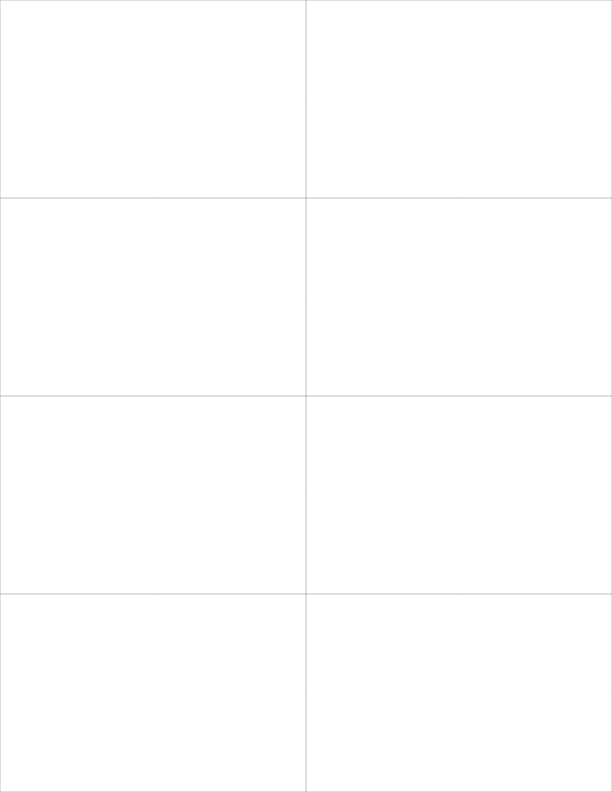
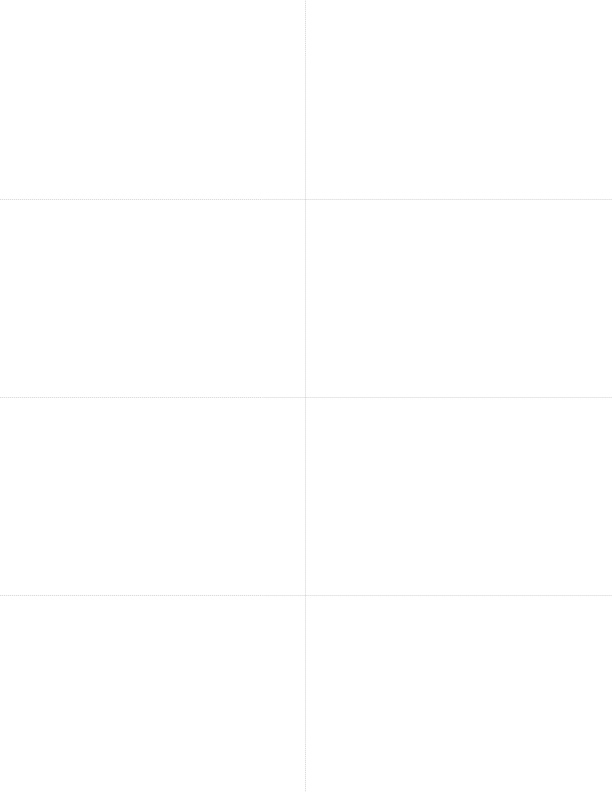
bg

diff --git a/card.css b/card.css
@@ -5,6 +5,9 @@
 	width: 100%;
 	height: 100%;
 	background-color: none;
+	background-image: url(images/card_fullpage.jpg);
+	background-repeat: no-repeat;
+	background-size: 100%;
 }
 .carditty {
 	width: 50%;
@@ -14,7 +17,7 @@
 	padding-right: 27px;
 	padding-bottom: 13px;
 	float:left;
-	background-color:#fff;
+	/*background-color:#fff;*/
 }
 .carditty2 { 
 	width: 50%;
@@ -37,8 +40,8 @@
 	line-height: 12px;
 	font-weight: 500;
 	margin-bottom: 2px;
-	background-color:#FFFFFF;
-	border:none;background-image: url(images/card_tittle.jpg);
+	/*background-color:#FFFFFF;*/
+	border:none;background-image: url(images/card_tittle2.png);
 	background-repeat: no-repeat;
 	background-size: 100%;
 }
@@ -52,7 +55,7 @@
 	margin-bottom: 0.227in;
 	background-color:#FFFFFF;
 	border:none;
-	background-image: url(images/card_tittle.jpg);
+	background-image: url(images/card_tittle2.png);
 	background-repeat: no-repeat;
 	background-size: 100%;
 }
@@ -64,7 +67,7 @@
 	font-weight: normal;
 	line-height: 12px;
 	margin-bottom: 0.227in;
-	border:none;background-image: url(images/card_tittle.jpg);
+	border:none;background-image: url(images/card_tittle2.png);
 	background-repeat: no-repeat;
 	background-size: 100%;
 }
@@ -77,7 +80,7 @@
 	line-height: 9px;
 	background-color:#FFFFFF;
 	border:none;
-	background-image: url(images/card_tittle.jpg);
+	background-image: url(images/card_tittle2.png);
 	background-repeat: no-repeat;
 	background-size: 100%;
 }
@@ -88,7 +91,8 @@
 	font-size: 8pt;
 	font-weight: lighter;
 	line-height: 9px;
-	border:none;background-image: url(images/card_tittle.jpg);
+	border:none; 
+	background-image: url(images/card_tittle2.png);
 	background-repeat: no-repeat;
 	background-size: 100%;
 }
